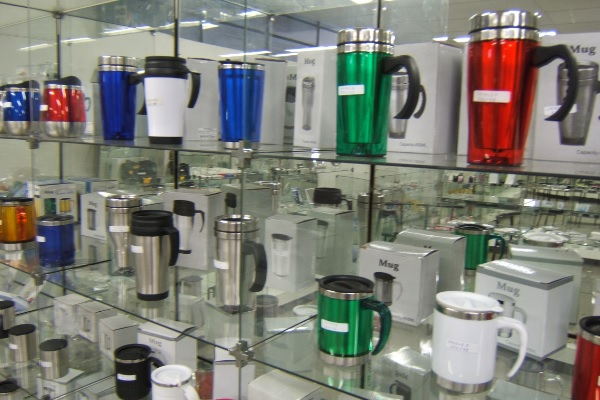
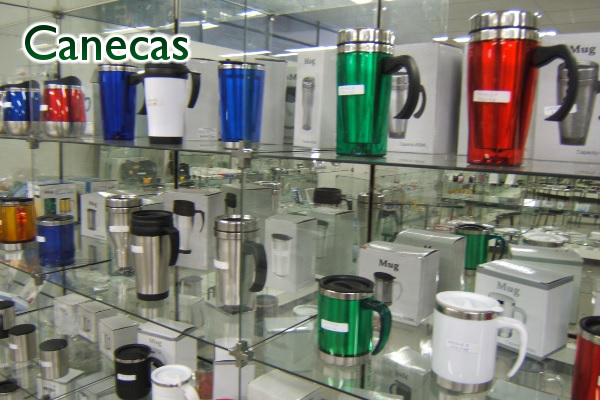
added text to showroom images

Changed region(s): [[0.03, 0.03, 0.33, 0.18]]

diff --git a/css/main.css b/css/main.css
@@ -174,13 +174,15 @@ body { font-size: 12px; font-family: sans-serif; }
 }
 
 .carousel_container {
+    margin-left: 30px;
+    margin-top: 25px;
     width: 650px;
-    height: 350px;
+    height: 450px;
 }
 
 .carousel {
     width: 600px;
-    height: 300px;
+    height: 400px;
 }
 
 .printable_header {
